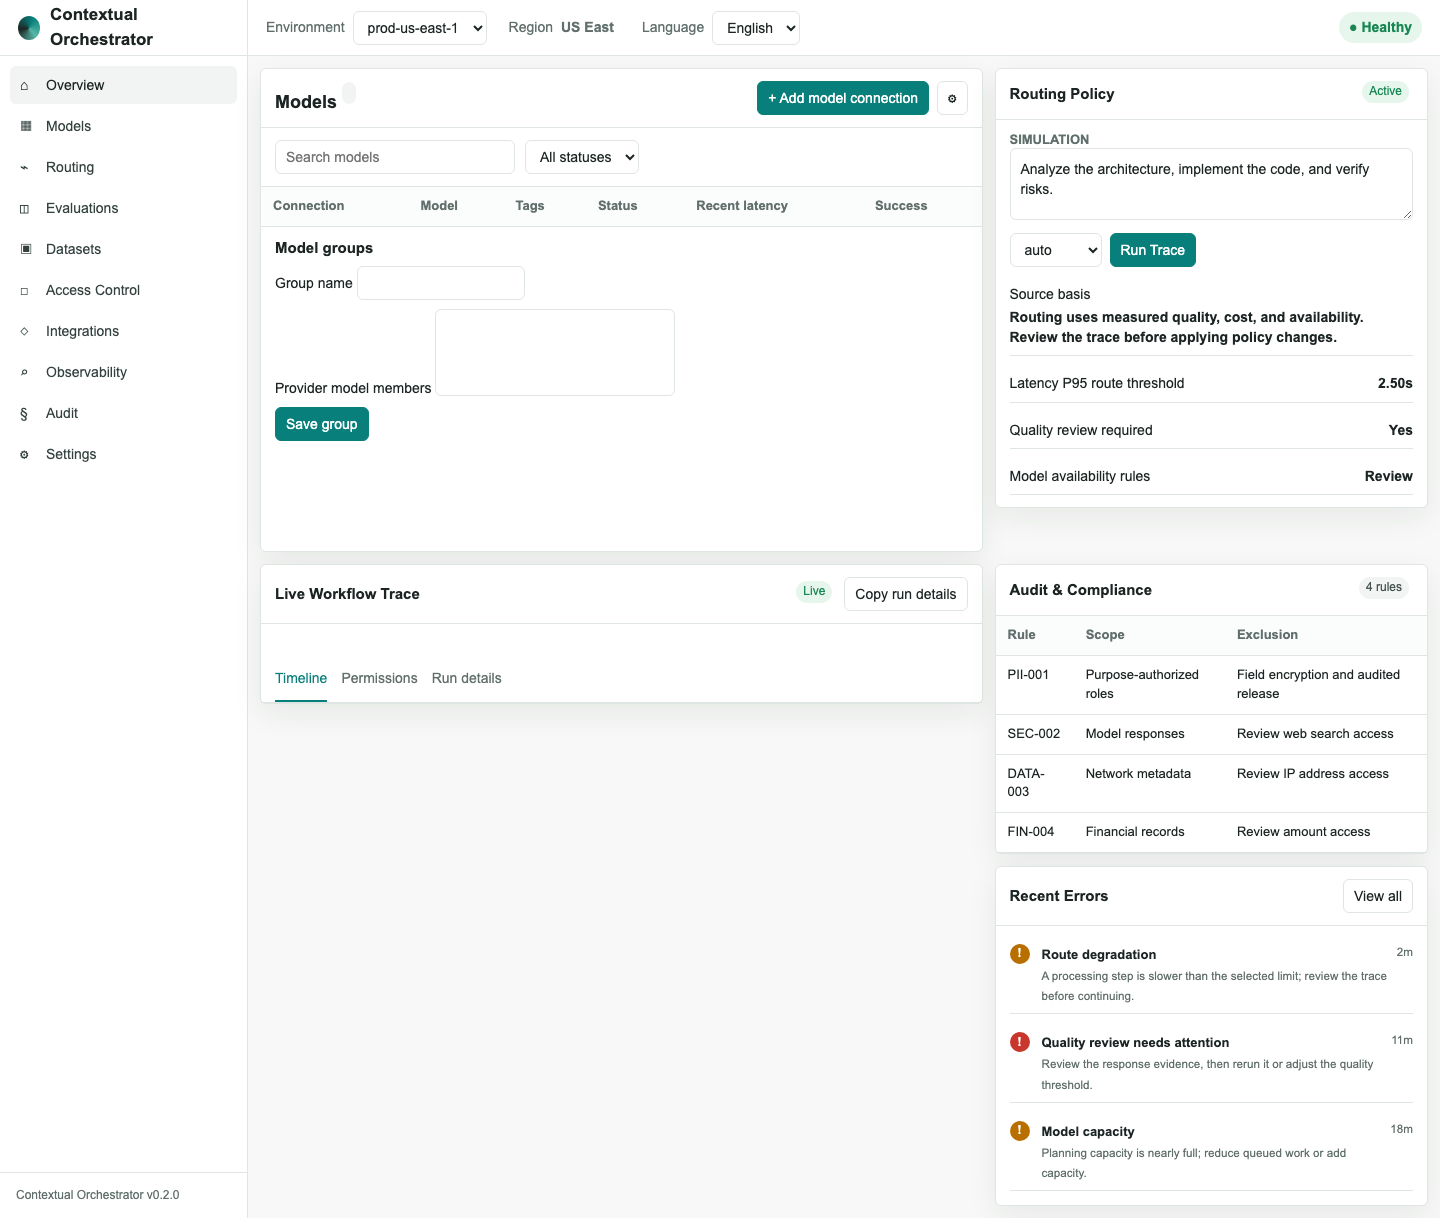
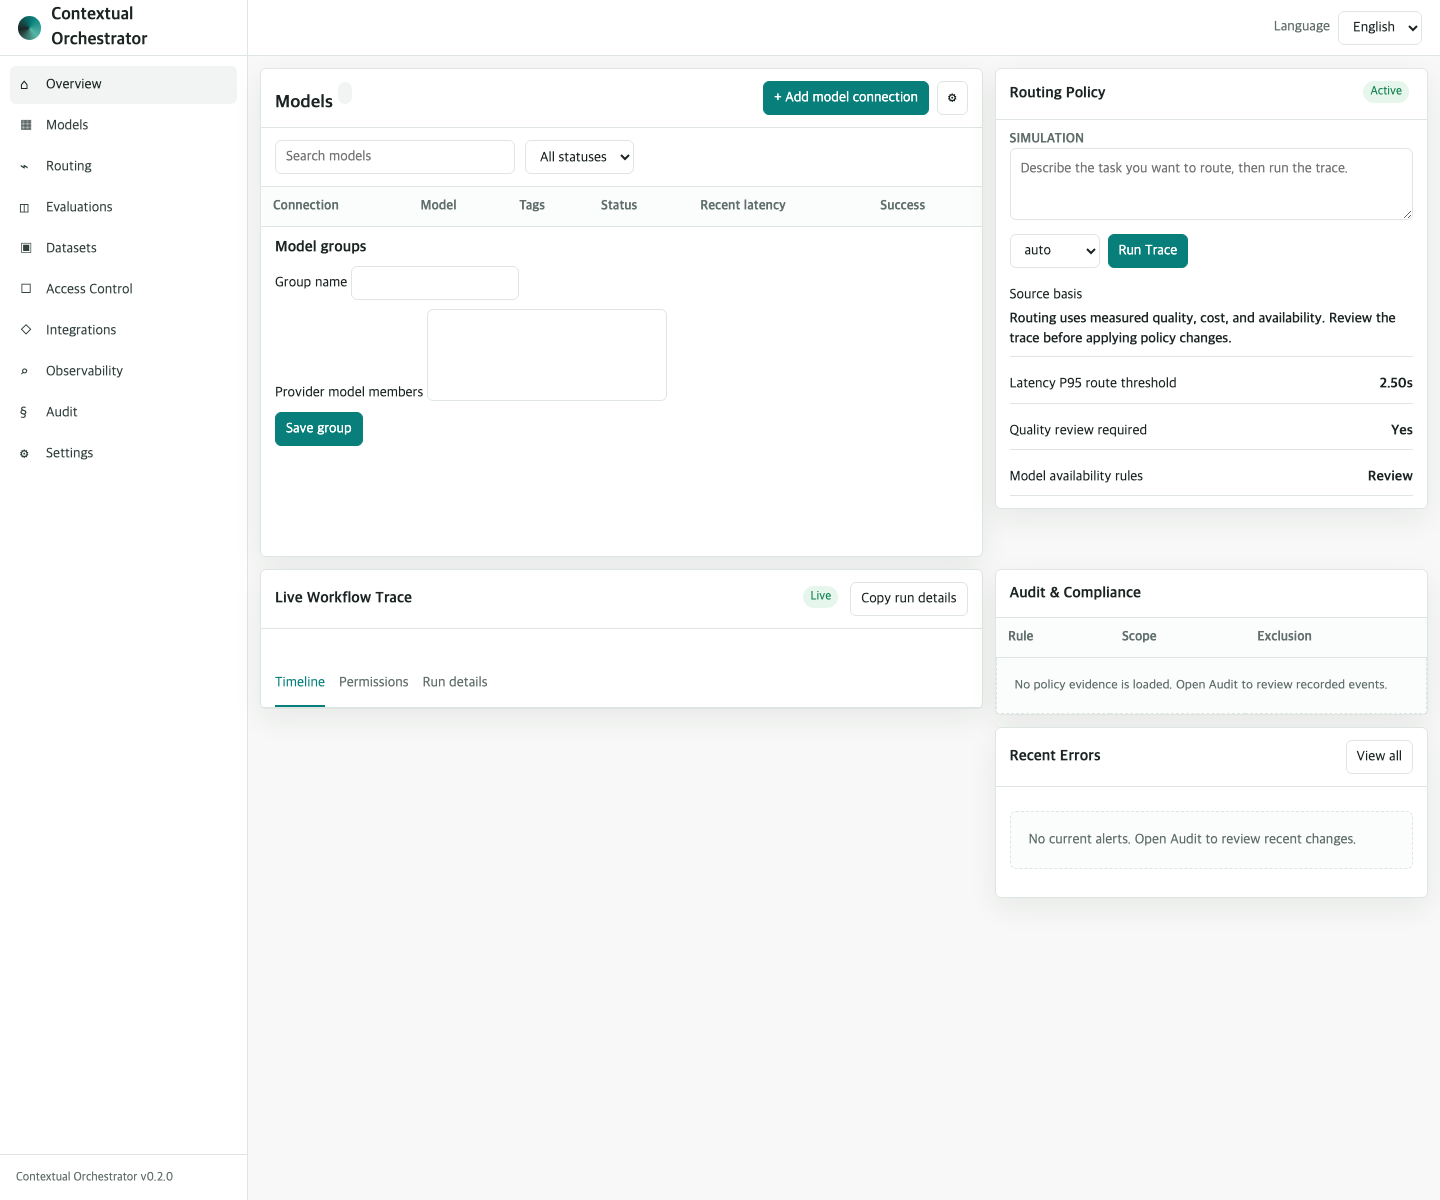
fix: replace synthetic admin status with truthful empty states

diff --git a/contextual_orchestrator/admin.py b/contextual_orchestrator/admin.py
@@ -13,11 +13,8 @@ ADMIN_TRANSLATIONS = {
         "nav_observability": "Observability",
         "nav_audit": "Audit",
         "nav_settings": "Settings",
-        "environment_label": "Environment",
-        "region_label": "Region",
         "language_label": "Language",
         "view_label": "View",
-        "healthy_status": "Healthy",
         "active_status": "Active",
         "agent_pool_title": "Models",
         "register_agent": "Add model connection",
@@ -34,6 +31,9 @@ ADMIN_TRANSLATIONS = {
         "no_agents_match": "No models match these filters. Clear a filter to see more models.",
         "no_agents_configured": "Add a model connection to start routing requests.",
         "no_audit_events": "Run a workflow to create your first audit event.",
+        "no_policy_evidence": "No policy evidence is loaded. Open Audit to review recorded events.",
+        "no_recent_errors": "No current alerts. Open Audit to review recent changes.",
+        "prompt_placeholder": "Describe the task you want to route, then run the trace.",
         "orchestration_policy": "Routing Policy",
         "simulation_title": "Simulation",
         "run_trace": "Run Trace",
@@ -261,11 +261,8 @@ ADMIN_TRANSLATIONS = {
         "nav_observability": "관측",
         "nav_audit": "감사",
         "nav_settings": "설정",
-        "environment_label": "환경",
-        "region_label": "리전",
         "language_label": "언어",
         "view_label": "화면",
-        "healthy_status": "정상",
         "active_status": "활성",
         "agent_pool_title": "모델",
         "register_agent": "모델 연결 추가",
@@ -282,6 +279,9 @@ ADMIN_TRANSLATIONS = {
         "no_agents_match": "현재 필터와 일치하는 모델이 없습니다. 더 보려면 필터를 해제하세요.",
         "no_agents_configured": "요청 라우팅을 시작하려면 모델 연결을 추가하세요.",
         "no_audit_events": "첫 감사 이벤트를 만들려면 워크플로를 실행하세요.",
+        "no_policy_evidence": "불러온 정책 근거가 없습니다. 기록된 이벤트를 검토하려면 감사를 여세요.",
+        "no_recent_errors": "현재 알림이 없습니다. 최근 변경 사항을 검토하려면 감사를 여세요.",
+        "prompt_placeholder": "라우팅할 작업을 설명한 다음 트레이스를 실행하세요.",
         "orchestration_policy": "라우팅 정책",
         "simulation_title": "시뮬레이션",
         "run_trace": "트레이스 실행",
@@ -594,15 +594,7 @@ ADMIN_HTML = r"""<!doctype html>
     }
     textarea { min-height: 72px; padding: 10px; resize: vertical; width: 100%; }
     #modelGroupMembers { min-width: 240px; }
-    .health {
-      margin-left: auto;
-      color: var(--green);
-      background: #e7f6ec;
-      padding: 5px 10px;
-      border-radius: 999px;
-      font-weight: 650;
-    }
-    .language-switch { margin-left: 6px; }
+    .language-switch { margin-left: auto; }
     .mobile-nav {
       display: none;
       padding: 10px 12px;
@@ -838,14 +830,12 @@ ADMIN_HTML = r"""<!doctype html>
       .toolbar { flex-wrap: wrap; }
       .toolbar input { min-width: 0; width: 100%; }
       .topbar { flex-wrap: wrap; height: auto; min-height: 56px; padding: 10px; }
-      .topbar { display: grid; grid-template-columns: 1fr 1fr; gap: 10px; }
-      .health { margin-left: 0; justify-self: start; }
+      .topbar { display: flex; gap: 10px; }
       .field { min-width: 0; }
       select { max-width: 100%; }
     }
     @media (max-width: 600px) {
-      .topbar .field:first-child { grid-column: 1 / -1; }
-      .topbar .field:first-child select { width: 100%; }
+      .language-switch { margin-left: 0; }
       #modelGroupMembers { width: 100%; }
     }
   </style>
@@ -870,10 +860,7 @@ ADMIN_HTML = r"""<!doctype html>
     </aside>
     <main class="main">
       <header class="topbar">
-        <div class="field"><span data-i18n="environment_label">Environment</span><select><option>prod-us-east-1</option><option>staging</option></select></div>
-        <div class="field"><span data-i18n="region_label">Region</span><strong>US East</strong></div>
         <div class="field language-switch"><span data-i18n="language_label">Language</span><select id="language"><option value="en">English</option><option value="ko">한국어</option></select></div>
-        <div class="health">● <span data-i18n="healthy_status">Healthy</span></div>
       </header>
       <div class="mobile-nav">
         <label for="mobileView" data-i18n="view_label">View</label>
@@ -925,7 +912,7 @@ ADMIN_HTML = r"""<!doctype html>
           <div class="policy-list">
             <div>
               <h3 data-i18n="simulation_title">Simulation</h3>
-              <textarea id="prompt">Analyze the architecture, implement the code, and verify risks.</textarea>
+              <textarea id="prompt" data-i18n-placeholder="prompt_placeholder" placeholder="Describe the task you want to route, then run the trace."></textarea>
               <div class="actions" style="margin-top:8px">
                 <select id="mode"><option value="auto">auto</option><option value="route">route</option><option value="conduct">conduct</option></select>
                 <button class="btn primary" id="run" data-i18n="run_trace">Run Trace</button>
@@ -955,24 +942,15 @@ ADMIN_HTML = r"""<!doctype html>
         </section>
         <aside class="audit">
           <section class="panel">
-            <div class="panel-header"><h2 data-i18n="audit_compliance">Audit &amp; Compliance</h2><span class="chip">4 rules</span></div>
+            <div class="panel-header"><h2 data-i18n="audit_compliance">Audit &amp; Compliance</h2></div>
             <table>
               <thead><tr><th data-i18n="rule_header">Rule</th><th data-i18n="scope_header">Scope</th><th data-i18n="exclusion_header">Exclusion</th></tr></thead>
-              <tbody>
-                <tr><td>PII-001</td><td>Purpose-authorized roles</td><td>Field encryption and audited release</td></tr>
-                <tr><td>SEC-002</td><td>Model responses</td><td>Review web search access</td></tr>
-                <tr><td>DATA-003</td><td>Network metadata</td><td>Review IP address access</td></tr>
-                <tr><td>FIN-004</td><td>Financial records</td><td>Review amount access</td></tr>
-              </tbody>
+              <tbody><tr><td colspan="3" class="empty" data-i18n="no_policy_evidence">No policy evidence is loaded. Open Audit to review recorded events.</td></tr></tbody>
             </table>
           </section>
           <section class="panel">
             <div class="panel-header"><h2 data-i18n="recent_errors">Recent Errors</h2><button class="btn" id="viewAudit" data-i18n="view_all">View all</button></div>
-            <div class="audit-list">
-              <div class="event"><span class="status-icon warn">!</span><div><b data-i18n="route_degradation">Route degradation</b><br><small data-i18n="worker_latency">A processing step is slower than the selected limit; review the trace before continuing.</small></div><small>2m</small></div>
-              <div class="event"><span class="status-icon">!</span><div><b data-i18n="verifier_disagreement">Quality review needs attention</b><br><small data-i18n="confidence_low">Review the response evidence, then rerun it or adjust the quality threshold.</small></div><small>11m</small></div>
-              <div class="event"><span class="status-icon warn">!</span><div><b data-i18n="agent_capacity">Model capacity</b><br><small data-i18n="planner_capacity">Planning capacity is nearly full; reduce queued work or add capacity.</small></div><small>18m</small></div>
-            </div>
+            <div class="audit-list"><p class="empty" data-i18n="no_recent_errors">No current alerts. Open Audit to review recent changes.</p></div>
           </section>
         </aside>
       </section>

diff --git a/tests/test_admin_contract.py b/tests/test_admin_contract.py
@@ -13,8 +13,13 @@ def test_admin_surface_exists_for_enterprise_operations() -> None:
     assert "Models" in ADMIN_HTML
     assert "Routing Policy" in ADMIN_HTML
     assert "Audit &amp; Compliance" in ADMIN_HTML
-    assert '<tr><td>PII-001</td><td>Purpose-authorized roles</td><td>Field encryption and audited release</td></tr>' in ADMIN_HTML
-    assert "PII-001" in ADMIN_HTML
+    assert "PII-001" not in ADMIN_HTML
+    assert "No policy evidence is loaded. Open Audit to review recorded events." in ADMIN_HTML
+    assert "No current alerts. Open Audit to review recent changes." in ADMIN_HTML
+    assert "Analyze the architecture, implement the code" not in ADMIN_HTML
+    assert "prod-us-east-1" not in ADMIN_HTML
+    assert ">US East<" not in ADMIN_HTML
+    assert 'data-i18n-placeholder="prompt_placeholder"' in ADMIN_HTML
     assert "Mask email, phone" not in ADMIN_HTML
     assert "/admin/simulate" in ADMIN_HTML
     assert "ADMIN_TRANSLATIONS" not in ADMIN_HTML
@@ -129,7 +134,7 @@ def test_admin_surface_exists_for_enterprise_operations() -> None:
         )
     )
     assert "Mask email, phone" not in ADMIN_HTML
-    assert "Field encryption and audited release" in ADMIN_HTML
+    assert "Field encryption and audited release" not in ADMIN_HTML
 
 
 def test_admin_state_exposes_agents_without_secrets() -> None:
